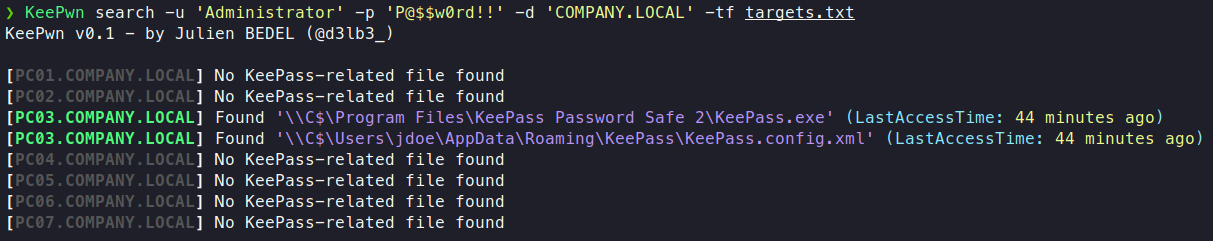
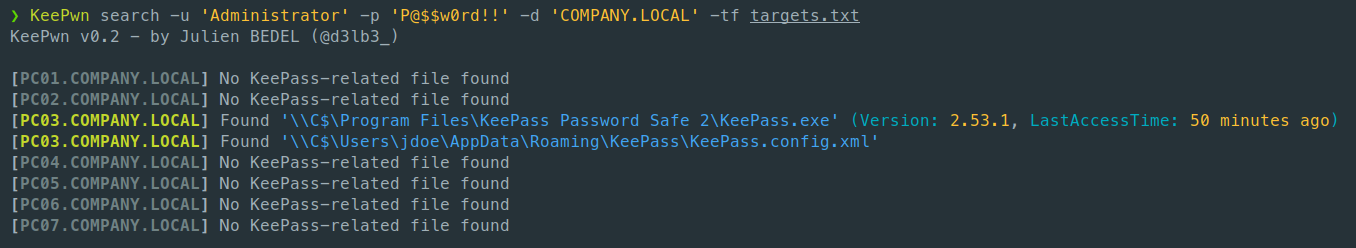
Update README.md

Changed region(s): [[0.0, 0.2905, 1.0, 0.9585], [0.0, 0.029, 0.7016, 0.2033]]

diff --git a/README.md b/README.md
@@ -53,31 +53,53 @@ python3 KeePwn.py --help
 
 ## Usage
 
-### Search Mode
+### Search
 
-The `search` module is used to identify hosts that run KeePass on your target environment. It makes use of the built-in C$ share to look for default KeePass-related files locations. For the moment, it only searches for global KeePass.exe binary (in *Program Files*) and local KeePass.config.xml (in *%APPDATA%*).
+KeePwn's `search` module is used to identify hosts that run KeePass on your target environment.
 
-![](./.github/images/keepwn_search_example.png)While enumerating KeePass through SMB shares is quieter against antiviruses protections, it sometimes lack some information like "is KeePass currently being run ?" (useful if you want to extract secrets through DLL injection with [KeeFarceReborn](https://github.com/d3lb3/KeeFarceReborn)). I will soon implement the `--search-process` flag that will check for live KeePass process execution through Impacket-based remote command execution.
+![](./.github/images/keepwn_search_example.png)
 
-### Trigger Mode
+The module makes use of the built-in C$ share to look for KeePass-related files in default locations. For the moment, the module only searches for the global KeePass.exe binary (in Program Files) and the local KeePass.config.xml (in %APPDATA%). Future release should include KeePass local installation (for example: on a user's Dekstop) and Windows Store installation.
 
-As described in @harmj0y's [blog post (*Exfiltration Without Malware* part)](https://blog.harmj0y.net/redteaming/keethief-a-case-study-in-attacking-keepass-part-2/), KeePass trigger system can be abused in order to export the database in cleartext. KeePwn trigger modules allows to :
+### Plugin
 
-- Check if a malicious trigger named "export" is currently present in KeePass configuration.
+KeePass features a [plugin framework](https://keepass.info/help/v2/plugins.html) which can be abuse to load malicious DLLs (see: [KeeFarceRebornPlugin](https://github.com/d3lb3/KeeFarceReborn#make-keepass-inject-keefarce-reborn-as-a-plugin)  into KeePass process, allowing attackers with administrator rights to easily export the database.
+
+KeePwn's `plugin` module allows to :
+
+- List currently installed plugins
+
+  ![](./.github/images/keepwn_plugin_check_example.png)
+
+- Add and remove your malicious plugins
+
+  ![](./.github/images/keepwn_plugin_add_example.png)
+
+- Poll %APPDATA% for exports and automatically moves it from remote host to local filesystem
+
+  ![](./.github/images/keepwn_plugin_poll_example.png)
+
+These actions are made through SMB C$ share access, limiting AV/EDR detection as no command execution is performed.
+
+### Trigger
+
+As described in [@harmj0y's blog post](https://blog.harmj0y.net/redteaming/keethief-a-case-study-in-attacking-keepass-part-2/) (and later CVE-2023-24055), KeePass trigger system can be abused in order to export the database in cleartext.
+
+KeePwn's `trigger` module allows to :
+
+- Check if a malicious trigger named "export" is currently written in KeePass configuration
 
   ![](./.github/images/keepwn_trigger_check_example.png)
 
-- Add and remove a malicious trigger named "export" which performs a cleartext export of the database in %APPDATA% on next KeePass launch.
+- Add and remove a malicious trigger named "export" which performs a cleartext export of the database in %APPDATA% on next KeePass launch
 
   ![](./.github/images/keepwn_trigger_add_example.png)
 
-- Poll %APPDATA% for exports and automatically moves it from remote host to local.
+- Poll %APPDATA% for exports and automatically moves it from remote host to local filesystem
 
   ![](./.github/images/keepwn_trigger_poll_example.png)
 
-Once again, these actions are made through SMB C$ share access, limiting antiviral detection as no command execution is performed.
-
-If no configuration file path is specified, note that KeePwn will try to find it manually by looking in default locations. As KeePass trigger manipulation should always be added with caution, the mode is limited to 1 host and 1 configuration file at a time. Feel free to let me know if you think of a use case that would need more than that (massive trigger abuse on a whole network?). 
+If the configuration file path is not in the default location, you can specify one with `--config-path` argument.
 
 ## Contribute
 
